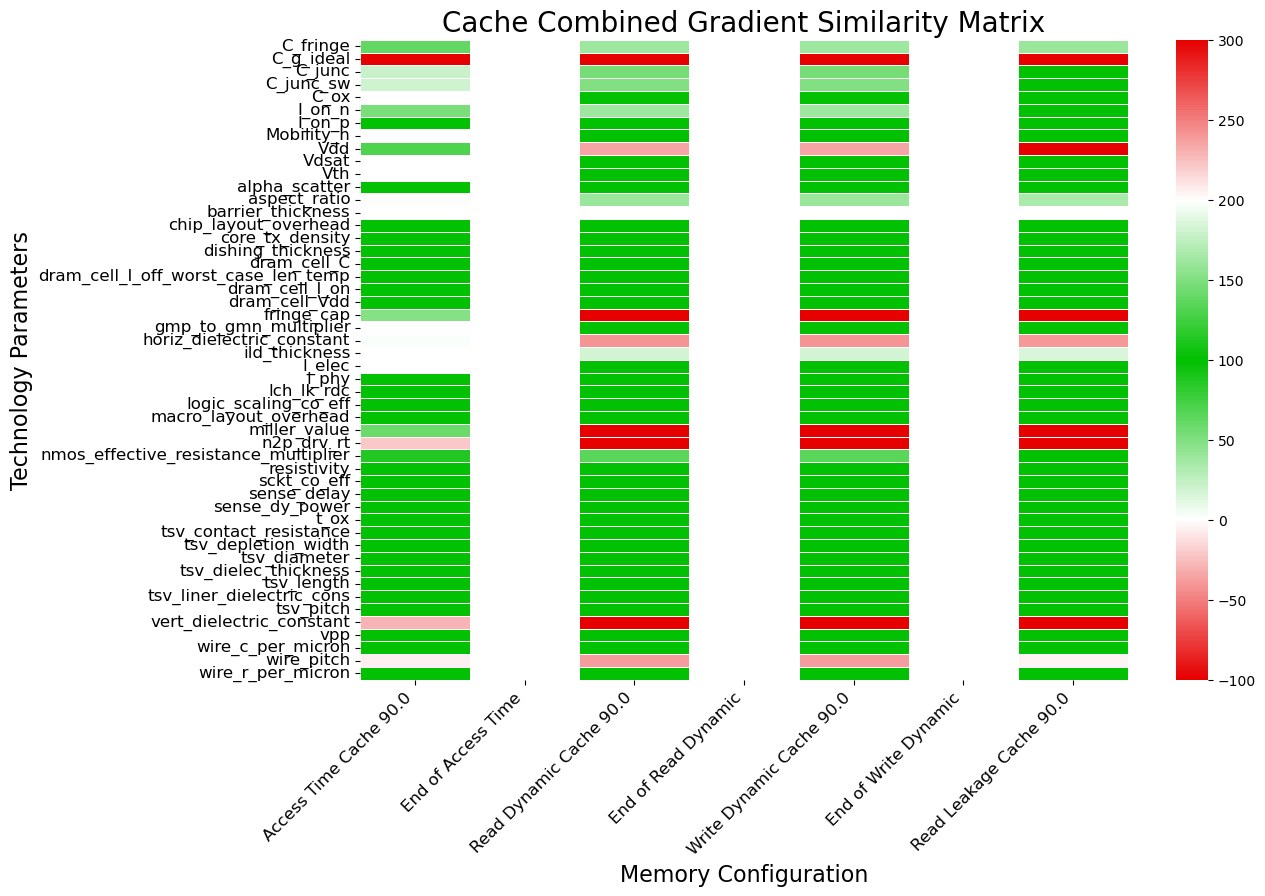
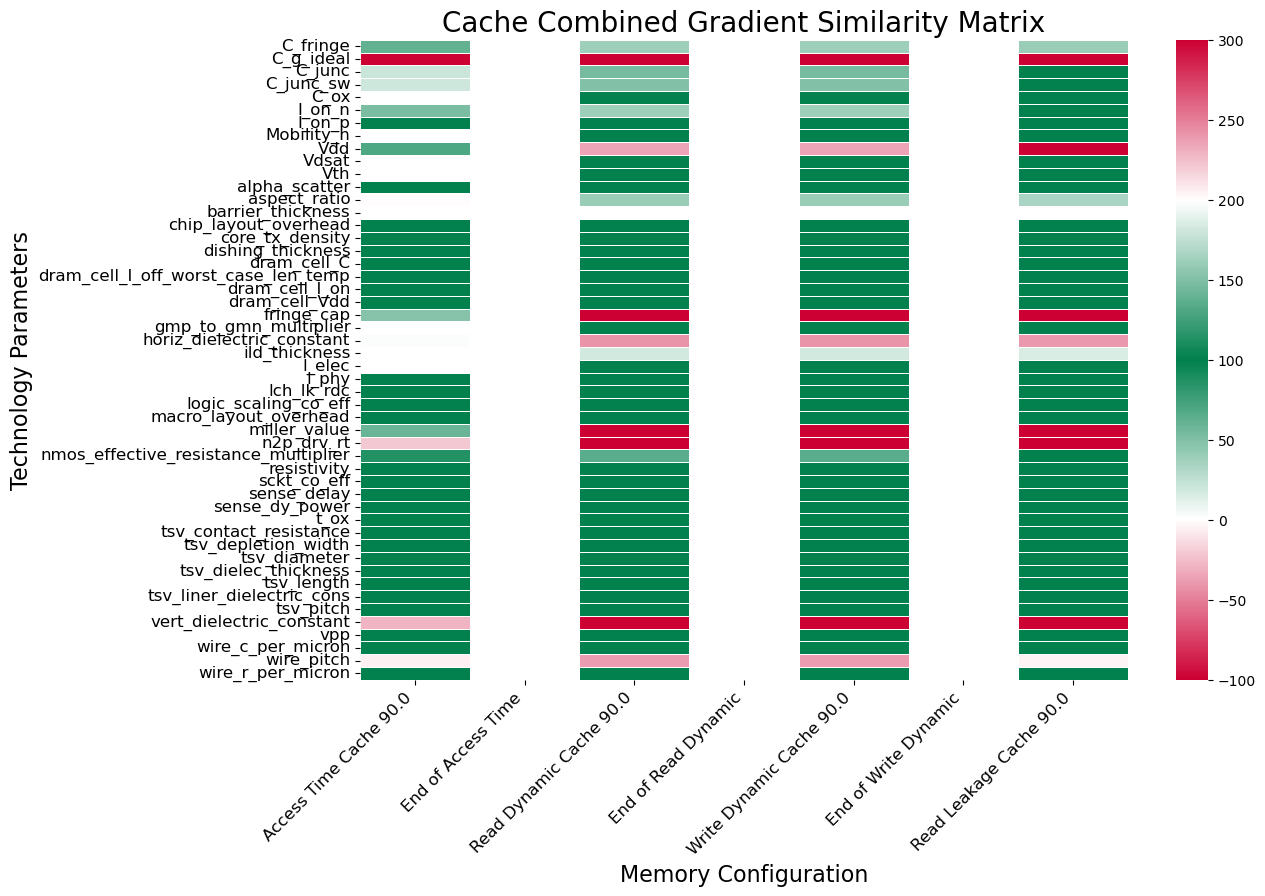
pr fixes

diff --git a/src/codesign.py b/src/codesign.py
@@ -206,27 +206,6 @@ class Codesign:
         self.symbolic_sim.calculate_edp(self.hw)
         self.symbolic_sim.save_edp_to_file()
 
-        # print(f"tech params: {self.tech_params}")
-        # print(f"type of tech_param keys: {type(list(self.tech_params.keys())[0])}")
-
-        # for symbol in self.symbolic_sim.edp.free_symbols:
-        #     for key in self.tech_params.keys():
-        #         # print(f"key: {key}")
-        #         # print(f"symbol: {symbol}")
-        #         if key.name == symbol.name:
-        #             print(f"key: {key} == symbol: {symbol}")
-        #             if key != symbol:
-        #                 print(f"{key}: {key.assumptions0}")
-        #                 print(f"{symbol}: {symbol.assumptions0}")
-        #         # else:
-                #     print(f'key: {key} != symbol: {symbol}')
-            # assert symbol in self.tech_params.keys()
-
-        # tech_params2 = {}
-        # for key in self.tech_params.keys():
-        #     tech_params2[key.name] = self.tech_params[key]
-
-        # print(f"tech params 2: {tech_params2}")
         inverse_cycles = self.symbolic_sim.cycles.xreplace(self.tech_params).evalf()
         print(f"free symbols in cycles after substition: {inverse_cycles.free_symbols}")
 
@@ -234,14 +213,9 @@ class Codesign:
 
         self.inverse_edp = self.symbolic_sim.edp.xreplace(self.tech_params).evalf()
         print(f"free symbols in inverse edp after substition: {self.inverse_edp.free_symbols}")
-        # self.inverse_edp = self.inverse_edp.subs(self.tech_params)
-
-        # print(
-        #     f"try again: free symbols in inverse edp after substition: {self.inverse_edp.free_symbols}"
-        # )
 
         assert len(self.inverse_edp.free_symbols) == 0
-        active_energy = self.symbolic_sim.total_active_energy.xreplace(self.tech_params)#.subs(tech_params2)
+        active_energy = self.symbolic_sim.total_active_energy.xreplace(self.tech_params)
         passive_energy = self.symbolic_sim.total_passive_energy.xreplace(self.tech_params)
 
         ### EVAL the x_replace
@@ -277,7 +251,7 @@ class Codesign:
         # for key in self.tech_params.keys():
         #     tech_params2[key.name] = self.tech_params[key]
 
-        self.inverse_edp = self.symbolic_sim.edp.xreplace(self.tech_params)#.subs(tech_params2)
+        self.inverse_edp = self.symbolic_sim.edp.xreplace(self.tech_params)
         total_active_energy = (self.symbolic_sim.total_active_energy).xreplace(self.tech_params)
         total_passive_energy = (self.symbolic_sim.total_passive_energy).xreplace(self.tech_params)
         execution_time = self.symbolic_sim.cycles.xreplace(self.tech_params)

diff --git a/src/cacti_validation/plot_grad.py b/src/cacti_validation/plot_grad.py
@@ -81,11 +81,11 @@ def plot_diff(csv_file_path=None, show_numbers=True, square=False, width=6, name
 
     # Custom colormap: red at -100 and 300, white at 0 and 200, green at 100
     colors = [
-        (0.9, 0.0, 0.0),  # Red at -100
+        (0.8, 0.0, 0.2),  # Red at -100
         (1.0, 1.0, 1.0),    # White at 0
-        (0.0, 0.75, 0.0),  # Green at 100
+        (0.0, 0.5, 0.3),  # Green at 100
         (1.0, 1.0, 1.0),    # White at 200
-        (0.9, 0.0, 0.0)   # Red at 300
+        (0.8, 0.0, 0.2)   # Red at 300
     ]
     nodes = [-100, 0, 100, 200, 300]
     normalized_nodes = [(node - min(nodes)) / (max(nodes) - min(nodes)) for node in nodes]
@@ -176,9 +176,6 @@ if __name__ == "__main__":
 
     args = parser.parse_args()
     cfg_name = args.CFG
-    print(cfg_name)
-    import time
-    time.sleep(5)
     
     # INDIVIDUAL PLOTS
     csv_file_path = f'src/cacti_validation/results/{cfg_name}_access_time_grad_results.csv'
@@ -192,19 +189,6 @@ if __name__ == "__main__":
 
     csv_file_path = f'src/cacti_validation/results/{cfg_name}_read_leakage_grad_results.csv'
     plot_diff(csv_file_path, name=f"{cfg_name}_read_leakage_similarity")
-
-    # no numbers on matrix
-    # csv_file_path = f'results/{cfg_name}_access_time_grad_results.csv'
-    # plot_diff(csv_file_path, False, True, name="access_time_no_num_similarity")
-
-    # csv_file_path = f'results/{cfg_name}_read_dynamic_grad_results.csv'
-    # plot_diff(csv_file_path, False, True, name="read_dynamic_no_num_similarity")
-
-    # csv_file_path = f'results/{cfg_name}_write_dynamic_grad_results.csv'
-    # plot_diff(csv_file_path, False, True, name="write_dynamic_no_num_similarity")
-
-    # csv_file_path = f'results/{cfg_name}_read_leakage_grad_results.csv'
-    # plot_diff(csv_file_path, False, True, name="read_leakage_no_num_similarity")
 
     # COMBINED PLOT
     csv_files = [

diff --git a/src/symbolic_simulate.py b/src/symbolic_simulate.py
@@ -233,7 +233,6 @@ class SymbolicSimulator(AbstractSimulator):
 
                         path_latency += hw_symbols.symbolic_latency_wc[func] * scaling
                     self.cycles = symbolic_convex_max(self.cycles, path_latency)
-        # self.cycles = hw_symbols.MemReadL + hw_symbols.MemWriteL
         logger.info(f"execution time: {str(self.cycles)}")
 
     def calculate_edp(self, hw):
@@ -319,7 +318,6 @@ def main():
     hw = HardwareModel(cfg=args.architecture_config)
 
     hw.get_optimization_params_from_tech_params()
-    print ("Checkpoint 1")
 
     computation_dfg = simulator.simulator_prep(args.benchmark, hw.latency)
 
@@ -328,11 +326,7 @@ def main():
         sim_util.find_nearest_power_2(0),
     )
 
-    print ("Checkpoint 2")
-
     computation_dfg = simulator.schedule(computation_dfg, hw)
-
-    print ("Checkpoint 3")
 
     simulator.transistor_size = hw.transistor_size  # in nm
     simulator.pitch = hw.pitch
@@ -347,17 +341,13 @@ def main():
         simulator.cache_size = 8
     else:
         simulator.cache_size = 16
-    print ("Checkpoint 4")
 
     hardwareModel.un_allocate_all_in_use_elements(hw.netlist)
     simulator.simulate(computation_dfg, hw)
-    print ("Checkpoint 5")
     simulator.calculate_edp(hw)
-    print ("Checkpoint 6")
 
     # simulator.edp = simulator.edp.simplify()
     simulator.save_edp_to_file()
-    print ("Checkpoint 7")
 
     return simulator.edp
 

diff --git a/src/sim_util.py b/src/sim_util.py
@@ -742,8 +742,6 @@ def generate_init_params_from_rcs_as_symbols(rcs):
         initial_params[hw_symbols.symbol_table["Reff_" + elem]] = rcs["Reff"][elem]
         initial_params[hw_symbols.symbol_table["Ceff_" + elem]] = rcs["Ceff"][elem]
     initial_params[hw_symbols.V_dd] = rcs["other"]["V_dd"]
-    # initial_params[hw_symbols.MemReadL] = rcs["other"]["MemReadL"]  # remove latencies from here, have to dat file inputs, refactor to opt params
-    # initial_params[hw_symbols.MemWriteL] = rcs["other"]["MemWriteL"]
     initial_params[hw_symbols.MemReadEact] = rcs["other"]["MemReadEact"]
     initial_params[hw_symbols.MemWriteEact] = rcs["other"]["MemWriteEact"]
     initial_params[hw_symbols.MemPpass] = rcs["other"]["MemPpass"]

diff --git a/src/preprocess.py b/src/preprocess.py
@@ -134,11 +134,7 @@ class Preprocessor:
             self.free_symbols.append(s)
             if s.name in initial_params:  # change this to just s
                 self.expr_symbols[s] = initial_params[s.name]
-        print(f"calculating initial val")
         self.initial_val = float(edp.xreplace(self.expr_symbols))
-        print(f"expr_symbols: {self.expr_symbols}")
-        # print("edp:", edp)
-        print("initial val:", self.initial_val)
 
         model.nVars = pyo.Param(initialize=len(edp.free_symbols))
         model.N = pyo.RangeSet(model.nVars)

diff --git a/src/simulate.py b/src/simulate.py
@@ -12,6 +12,7 @@ import matplotlib.pyplot as plt
 import numpy as np
 import graphviz as gv
 import networkx as nx
+import sympy as sp
 
 # custom modules
 from .memory import Memory
@@ -23,8 +24,6 @@ from . import sim_util
 from . import arch_search_util
 from .config_dicts import op2sym_map
 from .abstract_simulate import AbstractSimulator
-
-import sympy as sp
 
 MEMORY_SIZE = 1000000
 state_graph_counter = 0
